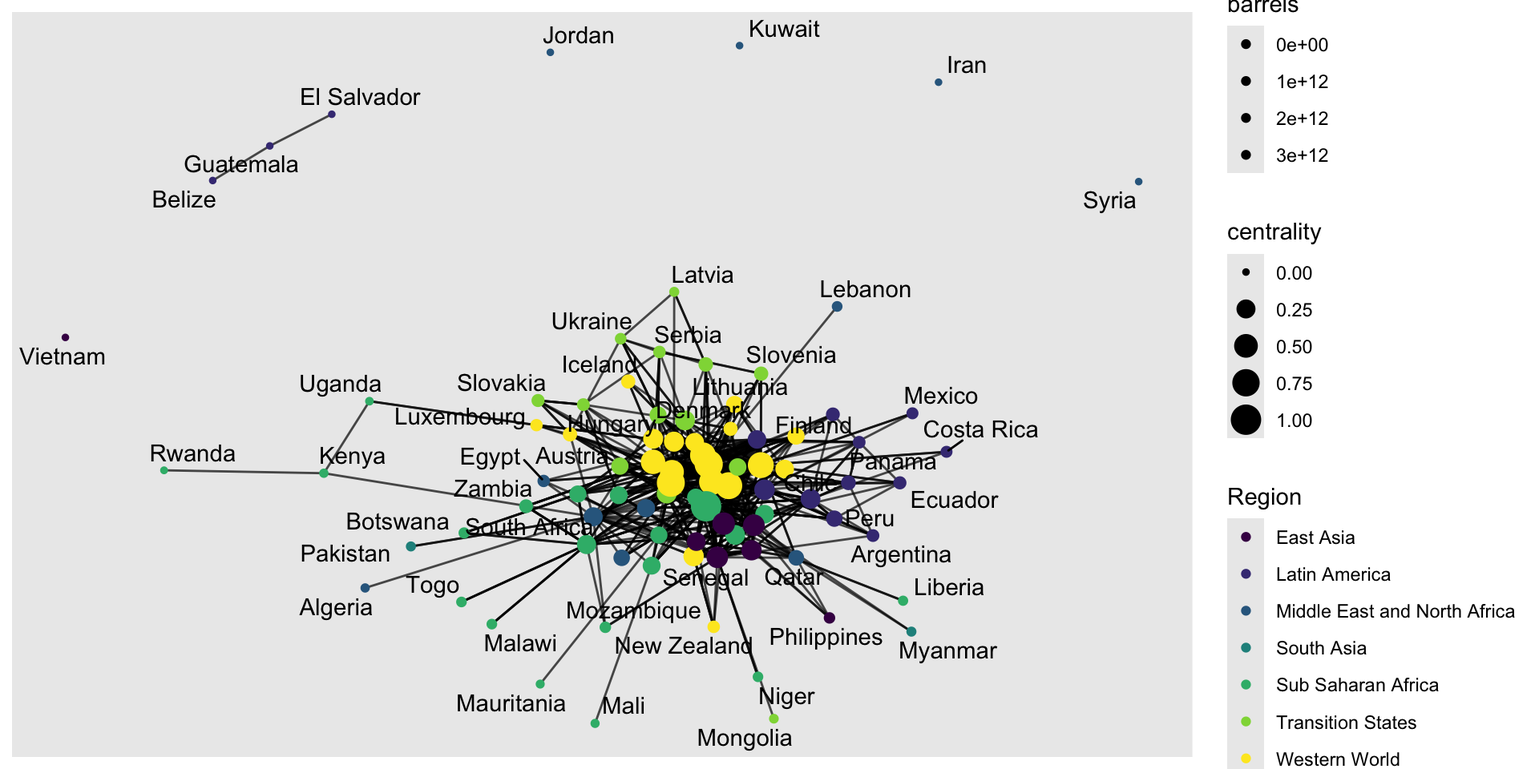
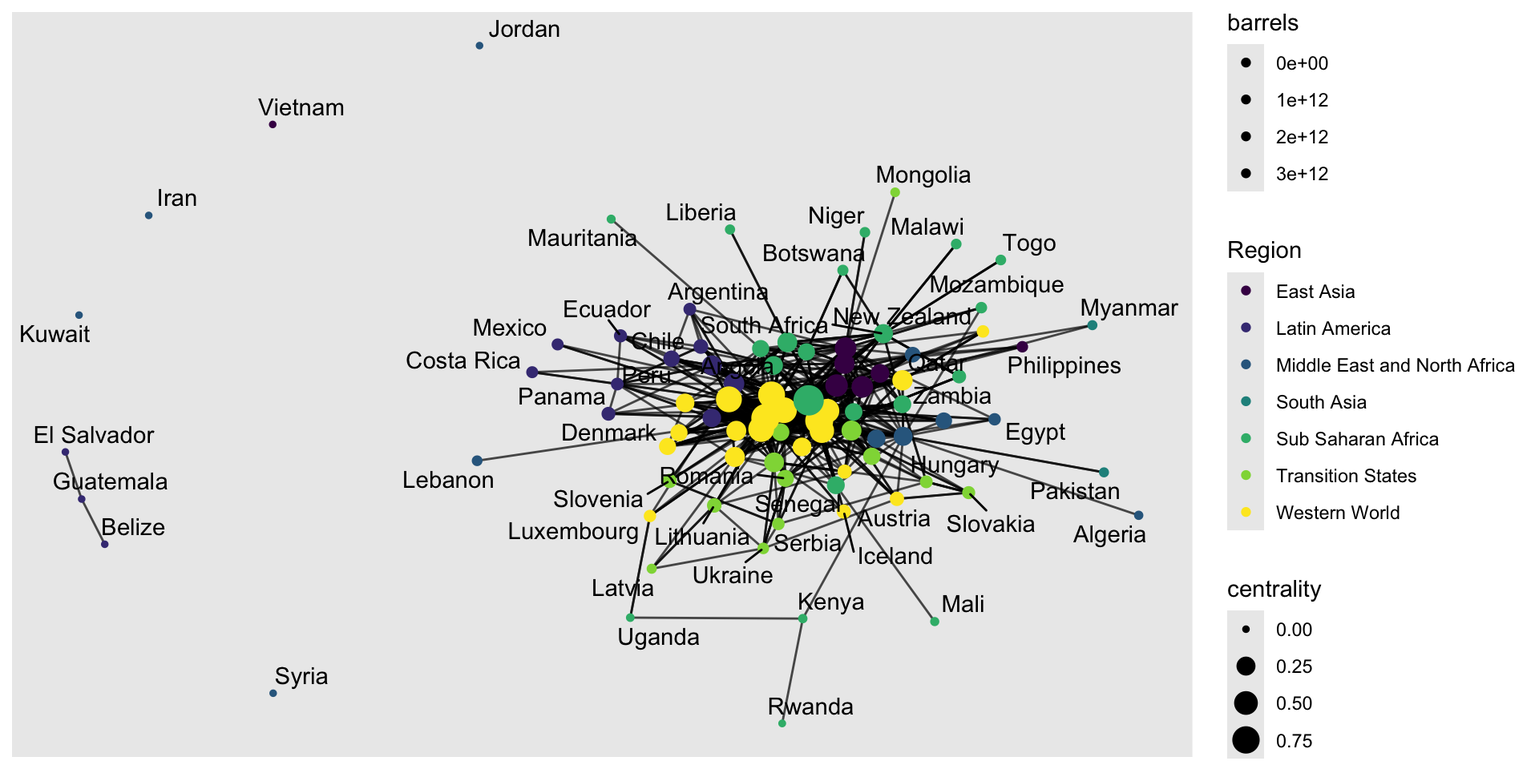
Updated Presentation

diff --git a/final_presentation.html b/final_presentation.html
@@ -10,7 +10,7 @@
   <meta name="generator" content="quarto-1.9.36">
 
   <meta name="author" content="Baxter Lowell">
-  <title>Project Presentation</title>
+  <title>Final Presentation: Global Oil Trade Networks</title>
   <meta name="apple-mobile-web-app-capable" content="yes">
   <meta name="apple-mobile-web-app-status-bar-style" content="black-translucent">
   <meta name="viewport" content="width=device-width, initial-scale=1.0, maximum-scale=1.0, user-scalable=no, minimal-ui">
@@ -139,7 +139,7 @@
     <div class="slides">
 
 <section id="title-slide" class="quarto-title-block center">
-  <h1 class="title">Project Presentation</h1>
+  <h1 class="title">Final Presentation: Global Oil Trade Networks</h1>
 
 <div class="quarto-title-authors">
 <div class="quarto-title-author">
@@ -166,7 +166,7 @@ Baxter Lowell
 </section>
 <section id="questions-of-interest" class="slide level2">
 <h2>Question(s) of Interest</h2>
-<p>Who does the US export oil to? Does exporting oil prop up an economy well enough to directly relate to a higher quality of life? What do trade networks look like for varying countries across the globe?</p>
+<p>Who does the US export oil to? Does exporting oil prop up an economy well enough to directly relate to a higher quality of life? What do trade networks look like for varying countries across the globe and how can this help explain who is effected most by global events such as conflicts, shortages, etc.?</p>
 </section>
 <section id="graph-1-usa-crude-oil-exports" class="slide level2">
 <h2>Graph 1: USA Crude Oil Exports</h2>
@@ -176,10 +176,14 @@ Baxter Lowell
 <h1>Graph 2: Oil Exports vs Life Expectancy</h1>
 <div class="cell">
 <div class="cell-output-display">
-<div class="plotly html-widget html-fill-item" id="htmlwidget-6b4110016b5d2728298e" style="width:960px;height:480px;"></div>
-<script type="application/json" data-for="htmlwidget-6b4110016b5d2728298e">{"x":{"data":[{"x":[73.5,73.5,73.5,69.400000000000006,74.200000000000003,68.700000000000003,74.099999999999994,74.099999999999994,74.099999999999994,74.099999999999994,74.099999999999994,74.099999999999994,74.099999999999994],"y":[47593325,1420845300,6365810000,2844781934.4000001,10367873490,4017782200,20,10,5,43000,40,76,681556705],"text":["Country: China","Country: China","Country: China","Country: Indonesia","Country: Malaysia","Country: Philippines","Country: Thailand","Country: Thailand","Country: Thailand","Country: Thailand","Country: Thailand","Country: Thailand","Country: Thailand"],"type":"scatter","mode":"markers","marker":{"autocolorscale":false,"color":"rgba(68,1,84,1)","opacity":1,"size":5.6692913385826778,"symbol":"circle","line":{"width":1.8897637795275593,"color":"rgba(68,1,84,1)"}},"hoveron":"points","name":"East Asia","legendgroup":"East Asia","showlegend":true,"xaxis":"x","yaxis":"y","hoverinfo":"text","frame":null},{"x":[75.900000000000006,76.099999999999994,79.099999999999994,79.099999999999994,73.700000000000003,73.700000000000003,79.299999999999997,72.200000000000003,71.200000000000003,69.900000000000006,74],"y":[6623706300,3012270,47593325,1420845300,28567776.699999999,28567776.699999999,91.552000000000007,5900.5,87758700,6365810000,702376.91000000003],"text":["Country: Argentina","Country: Belize","Country: Chile","Country: Chile","Country: Colombia","Country: Colombia","Country: Costa Rica","Country: El Salvador","Country: Guatemala","Country: Guyana","Country: Peru"],"type":"scatter","mode":"markers","marker":{"autocolorscale":false,"color":"rgba(68,58,131,1)","opacity":1,"size":5.6692913385826778,"symbol":"circle","line":{"width":1.8897637795275593,"color":"rgba(68,58,131,1)"}},"hoveron":"points","name":"Latin America","legendgroup":"Latin America","showlegend":true,"xaxis":"x","yaxis":"y","hoverinfo":"text","frame":null},{"x":[74.599999999999994,75.900000000000006,74.5],"y":[82006660000,25,1312046520],"text":["Country: Kuwait","Country: Syria","Country: Tunisia"],"type":"scatter","mode":"markers","marker":{"autocolorscale":false,"color":"rgba(49,104,142,1)","opacity":1,"size":5.6692913385826778,"symbol":"circle","line":{"width":1.8897637795275593,"color":"rgba(49,104,142,1)"}},"hoveron":"points","name":"Middle East and North Africa","legendgroup":"Middle East and North Africa","showlegend":true,"xaxis":"x","yaxis":"y","hoverinfo":"text","frame":null},{"x":[65.200000000000003,65.400000000000006],"y":[275000,43640],"text":["Country: Myanmar","Country: Pakistan"],"type":"scatter","mode":"markers","marker":{"autocolorscale":false,"color":"rgba(33,144,140,1)","opacity":1,"size":5.6692913385826778,"symbol":"circle","line":{"width":1.8897637795275593,"color":"rgba(33,144,140,1)"}},"hoveron":"points","name":"South Asia","legendgroup":"South Asia","showlegend":true,"xaxis":"x","yaxis":"y","hoverinfo":"text","frame":null},{"x":[51.100000000000001,53.200000000000003,51.600000000000001,51.600000000000001,57.399999999999999,57.399999999999999,55.399999999999999,64.200000000000003,64.200000000000003,57.100000000000001,54.200000000000003,51.399999999999999,58.600000000000001,62.5,62.5,62.5,54.700000000000003,51.899999999999999,55.399999999999999,59.299999999999997,57.100000000000001,57.100000000000001,54.100000000000001,49,49,49],"y":[386425653.80000001,568.75,3083818500,3083818500,13951740200,26,1115941190,1420845300,6365810000,2970,6,6,7.5499999999999998,6721.6899999999996,663,663,98,98,8500,63690165,13951740200,26,8500,6721.6899999999996,663,663],"text":["Country: Angola","Country: Botswana","Country: Cameroon","Country: Cameroon","Country: Congo","Country: Congo","Country: Cote d'Ivoire","Country: Ghana","Country: Ghana","Country: Kenya","Country: Malawi","Country: Mali","Country: Mauritania","Country: Namibia","Country: Namibia","Country: Namibia","Country: Niger","Country: Nigeria","Country: Rwanda","Country: Senegal","Country: Togo","Country: Togo","Country: Uganda","Country: Zambia","Country: Zambia","Country: Zambia"],"type":"scatter","mode":"markers","marker":{"autocolorscale":false,"color":"rgba(53,183,121,1)","opacity":1,"size":5.6692913385826778,"symbol":"circle","line":{"width":1.8897637795275593,"color":"rgba(53,183,121,1)"}},"hoveron":"points","name":"Sub Saharan Africa","legendgroup":"Sub Saharan Africa","showlegend":true,"xaxis":"x","yaxis":"y","hoverinfo":"text","frame":null},{"x":[70.700000000000003,70.700000000000003,70.700000000000003,70.700000000000003,70.700000000000003,70.700000000000003,70.700000000000003,70.700000000000003,70.700000000000003,70.700000000000003,70.700000000000003,70.700000000000003,70.700000000000003,70.700000000000003,70.700000000000003,70.700000000000003,70.700000000000003,70.700000000000003,70.700000000000003,70.700000000000003,70.700000000000003,70.700000000000003,70.700000000000003,76.599999999999994,74.400000000000006,67,73.299999999999997,73.299999999999997,72.200000000000003,68.5,74,74,74,74.5,75.400000000000006,75.400000000000006,79.299999999999997,79.299999999999997,68.5],"y":[26047249100,39196600,266569000,975166000,1135960000,199007000,1341020000,743513000,221085000,630056000,2270340000,11117500000,48042500,449879000,621948000,2025080000,138338000,554367000,1221970000,48688000,106275000,1202210000,691039000,524839089,271429467,70665926869,3688726,3688726,32491976,4730370,33984209.600000001,1.7,33984207.899999999,25,1503530,1046.8299999999999,1503530,1046.8299999999999,16321050],"text":["Country: Azerbaijan","Country: Azerbaijan","Country: Azerbaijan","Country: Azerbaijan","Country: Azerbaijan","Country: Azerbaijan","Country: Azerbaijan","Country: Azerbaijan","Country: Azerbaijan","Country: Azerbaijan","Country: Azerbaijan","Country: Azerbaijan","Country: Azerbaijan","Country: Azerbaijan","Country: Azerbaijan","Country: Azerbaijan","Country: Azerbaijan","Country: Azerbaijan","Country: Azerbaijan","Country: Azerbaijan","Country: Azerbaijan","Country: Azerbaijan","Country: Azerbaijan","Country: Croatia","Country: Hungary","Country: Kazakhstan","Country: Latvia","Country: Latvia","Country: Lithuania","Country: Mongolia","Country: Romania","Country: Romania","Country: Romania","Country: Serbia","Country: Slovakia","Country: Slovakia","Country: Slovenia","Country: Slovenia","Country: Ukraine"],"type":"scatter","mode":"markers","marker":{"autocolorscale":false,"color":"rgba(143,215,68,1)","opacity":1,"size":5.6692913385826778,"symbol":"circle","line":{"width":1.8897637795275593,"color":"rgba(143,215,68,1)"}},"hoveron":"points","name":"Transition States","legendgroup":"Transition States","showlegend":true,"xaxis":"x","yaxis":"y","hoverinfo":"text","frame":null},{"x":[81.900000000000006,80.900000000000006,80,80,80,81.5,81.5,81.5,81.5,80.400000000000006,80.400000000000006,79.900000000000006,81.799999999999997,80.599999999999994,80,80,80,80,81.099999999999994,81.099999999999994,81.099999999999994,81.099999999999994,81.099999999999994,81.099999999999994,81.099999999999994,81.099999999999994,81.400000000000006,81.400000000000006,81.400000000000006,81.400000000000006,81.400000000000006,81.400000000000006,81.400000000000006,81.400000000000006,81.400000000000006,81.400000000000006,82.299999999999997,80.200000000000003,80.200000000000003,80.200000000000003,80.200000000000003,80.200000000000003,80.200000000000003,80.200000000000003,80.200000000000003,80.200000000000003,80.200000000000003,80.200000000000003,80.200000000000003,80.200000000000003,80.200000000000003,80.200000000000003,80.200000000000003,80.200000000000003,80.200000000000003,80.200000000000003,80.200000000000003,80.200000000000003],"y":[14880141230.07,14880141230.07,11309230.58,6,6,152,1864,15000,119,2640400,2640400,125839000,146321911,146321911,3.2999999999999998,0.29999999999999999,2,1,293307000,1357390000,67057400,204278000,166950000,242627000,936167000,146979000,13.800000000000001,200,1286371673.4400001,400,32932700,276949300,31786000,33000800,31255916,32356900,301,260846660,26,674914100,1666261100,483933000,779410200,2305995400,3929837503,79689900,967525160,1158942000,432462900,52280600,14354305700,146275310,3194366700,710,404365800,1702984060,150,595719400],"text":["Country: Australia","Country: Austria","Country: Belgium","Country: Finland","Country: Finland","Country: France","Country: France","Country: France","Country: France","Country: Germany","Country: Germany","Country: Greece","Country: Iceland","Country: Ireland","Country: Luxembourg","Country: Luxembourg","Country: Luxembourg","Country: Luxembourg","Country: Norway","Country: Norway","Country: Norway","Country: Norway","Country: Norway","Country: Norway","Country: Norway","Country: Norway","Country: Spain","Country: Spain","Country: Spain","Country: Spain","Country: Spain","Country: Spain","Country: Spain","Country: Spain","Country: Spain","Country: Spain","Country: Switzerland","Country: United Kingdom","Country: United Kingdom","Country: United Kingdom","Country: United Kingdom","Country: United Kingdom","Country: United Kingdom","Country: United Kingdom","Country: United Kingdom","Country: United Kingdom","Country: United Kingdom","Country: United Kingdom","Country: United Kingdom","Country: United Kingdom","Country: United Kingdom","Country: United Kingdom","Country: United Kingdom","Country: United Kingdom","Country: United Kingdom","Country: United Kingdom","Country: United Kingdom","Country: United Kingdom"],"type":"scatter","mode":"markers","marker":{"autocolorscale":false,"color":"rgba(253,231,37,1)","opacity":1,"size":5.6692913385826778,"symbol":"circle","line":{"width":1.8897637795275593,"color":"rgba(253,231,37,1)"}},"hoveron":"points","name":"Western World","legendgroup":"Western World","showlegend":true,"xaxis":"x","yaxis":"y","hoverinfo":"text","frame":null},{"x":[null,null,null,null,null,null,null,null,null,null,null,null,null,null,null,null,null],"y":[5,17639400,35302195.899999999,625804,2819599248,5,249566455,368.89999999999998,8895,2414205,45838450,182843600,90,1090843,1482247512,14400,2414205],"text":"Country: NA","type":"scatter","mode":"markers","marker":{"autocolorscale":false,"color":["transparent","transparent","transparent","transparent","transparent","transparent","transparent","transparent","transparent","transparent","transparent","transparent","transparent","transparent","transparent","transparent","transparent"],"opacity":1,"size":5.6692913385826778,"symbol":"circle","line":{"width":1.8897637795275593,"color":["transparent","transparent","transparent","transparent","transparent","transparent","transparent","transparent","transparent","transparent","transparent","transparent","transparent","transparent","transparent","transparent","transparent"]}},"hoveron":"points","name":"NA","legendgroup":"NA","showlegend":true,"xaxis":"x","yaxis":"y","hoverinfo":"text","frame":null}],"layout":{"margin":{"t":40.840182648401829,"r":7.3059360730593621,"b":37.260273972602747,"l":54.794520547945211},"plot_bgcolor":"rgba(255,255,255,1)","paper_bgcolor":"rgba(255,255,255,1)","font":{"color":"rgba(0,0,0,1)","family":"","size":14.611872146118724},"title":{"text":"Life Expectancy Based on Crude Oil Exports","font":{"color":"rgba(0,0,0,1)","family":"","size":17.534246575342465},"x":0,"xref":"paper"},"xaxis":{"domain":[0,1],"automargin":true,"type":"linear","autorange":false,"range":[47.335000000000001,83.965000000000003],"tickmode":"array","ticktext":["50","60","70","80"],"tickvals":[50,60,70,80],"categoryorder":"array","categoryarray":["50","60","70","80"],"nticks":null,"ticks":"outside","tickcolor":"rgba(51,51,51,1)","ticklen":3.6529680365296811,"tickwidth":0.66417600664176002,"showticklabels":true,"tickfont":{"color":"rgba(77,77,77,1)","family":"","size":11.68949771689498},"tickangle":-0,"showline":false,"linecolor":null,"linewidth":0,"showgrid":true,"gridcolor":"rgba(235,235,235,1)","gridwidth":0.66417600664176002,"zeroline":false,"anchor":"y","title":{"text":" Life Expectancy","font":{"color":"rgba(0,0,0,1)","family":"","size":14.611872146118724}},"hoverformat":".2f"},"yaxis":{"domain":[0,1],"automargin":true,"type":"linear","autorange":false,"range":[-4100332999.6849999,86106992999.985001],"tickmode":"array","ticktext":["0e+00","2e+10","4e+10","6e+10","8e+10"],"tickvals":[0,20000000000,40000000000,60000000000.000008,80000000000],"categoryorder":"array","categoryarray":["0e+00","2e+10","4e+10","6e+10","8e+10"],"nticks":null,"ticks":"outside","tickcolor":"rgba(51,51,51,1)","ticklen":3.6529680365296811,"tickwidth":0.66417600664176002,"showticklabels":true,"tickfont":{"color":"rgba(77,77,77,1)","family":"","size":11.68949771689498},"tickangle":-0,"showline":false,"linecolor":null,"linewidth":0,"showgrid":true,"gridcolor":"rgba(235,235,235,1)","gridwidth":0.66417600664176002,"zeroline":false,"anchor":"x","title":{"text":"Barrels Exported","font":{"color":"rgba(0,0,0,1)","family":"","size":14.611872146118724}},"hoverformat":".2f"},"shapes":[{"type":"rect","fillcolor":"rgba(255,255,255,1)","line":{"color":"rgba(51,51,51,1)","width":0.66417600664176002,"linetype":"solid"},"yref":"paper","xref":"paper","layer":"below","x0":0,"x1":1,"y0":0,"y1":1}],"showlegend":true,"legend":{"bgcolor":"rgba(255,255,255,1)","bordercolor":"transparent","borderwidth":1.8897637795275593,"font":{"color":"rgba(0,0,0,1)","family":"","size":11.68949771689498},"title":{"text":"Region","font":{"color":"rgba(0,0,0,1)","family":"","size":14.611872146118724}}},"hovermode":"closest","barmode":"relative"},"config":{"doubleClick":"reset","modeBarButtonsToAdd":["hoverclosest","hovercompare"],"showSendToCloud":false},"source":"A","attrs":{"184881688831a":{"x":{},"y":{},"colour":{},"label":{},"type":"scatter"}},"cur_data":"184881688831a","visdat":{"184881688831a":["function (y) ","x"]},"highlight":{"on":"plotly_click","persistent":false,"dynamic":false,"selectize":false,"opacityDim":0.20000000000000001,"selected":{"opacity":1},"debounce":0},"shinyEvents":["plotly_hover","plotly_click","plotly_selected","plotly_relayout","plotly_brushed","plotly_brushing","plotly_clickannotation","plotly_doubleclick","plotly_deselect","plotly_afterplot","plotly_sunburstclick"],"base_url":"https://plot.ly"},"evals":[],"jsHooks":[]}</script>
+<div class="plotly html-widget html-fill-item" id="htmlwidget-092c2b0942035cf39b8c" style="width:960px;height:480px;"></div>
+<script type="application/json" data-for="htmlwidget-092c2b0942035cf39b8c">{"x":{"data":[{"x":[73.5,73.5,73.5,69.400000000000006,74.200000000000003,68.700000000000003,74.099999999999994,74.099999999999994,74.099999999999994,74.099999999999994,74.099999999999994,74.099999999999994,74.099999999999994],"y":[47593325,1420845300,6365810000,2844781934.4000001,10367873490,4017782200,20,10,5,43000,40,76,681556705],"text":["Country: China","Country: China","Country: China","Country: Indonesia","Country: Malaysia","Country: Philippines","Country: Thailand","Country: Thailand","Country: Thailand","Country: Thailand","Country: Thailand","Country: Thailand","Country: Thailand"],"type":"scatter","mode":"markers","marker":{"autocolorscale":false,"color":"rgba(68,1,84,1)","opacity":1,"size":5.6692913385826778,"symbol":"circle","line":{"width":1.8897637795275593,"color":"rgba(68,1,84,1)"}},"hoveron":"points","name":"East Asia","legendgroup":"East Asia","showlegend":true,"xaxis":"x","yaxis":"y","hoverinfo":"text","frame":null},{"x":[75.900000000000006,76.099999999999994,79.099999999999994,79.099999999999994,73.700000000000003,73.700000000000003,79.299999999999997,72.200000000000003,71.200000000000003,69.900000000000006,74],"y":[6623706300,3012270,47593325,1420845300,28567776.699999999,28567776.699999999,91.552000000000007,5900.5,87758700,6365810000,702376.91000000003],"text":["Country: Argentina","Country: Belize","Country: Chile","Country: Chile","Country: Colombia","Country: Colombia","Country: Costa Rica","Country: El Salvador","Country: Guatemala","Country: Guyana","Country: Peru"],"type":"scatter","mode":"markers","marker":{"autocolorscale":false,"color":"rgba(68,58,131,1)","opacity":1,"size":5.6692913385826778,"symbol":"circle","line":{"width":1.8897637795275593,"color":"rgba(68,58,131,1)"}},"hoveron":"points","name":"Latin America","legendgroup":"Latin America","showlegend":true,"xaxis":"x","yaxis":"y","hoverinfo":"text","frame":null},{"x":[74.599999999999994,75.900000000000006,74.5],"y":[82006660000,25,1312046520],"text":["Country: Kuwait","Country: Syria","Country: Tunisia"],"type":"scatter","mode":"markers","marker":{"autocolorscale":false,"color":"rgba(49,104,142,1)","opacity":1,"size":5.6692913385826778,"symbol":"circle","line":{"width":1.8897637795275593,"color":"rgba(49,104,142,1)"}},"hoveron":"points","name":"Middle East and North Africa","legendgroup":"Middle East and North Africa","showlegend":true,"xaxis":"x","yaxis":"y","hoverinfo":"text","frame":null},{"x":[65.200000000000003,65.400000000000006],"y":[275000,43640],"text":["Country: Myanmar","Country: Pakistan"],"type":"scatter","mode":"markers","marker":{"autocolorscale":false,"color":"rgba(33,144,140,1)","opacity":1,"size":5.6692913385826778,"symbol":"circle","line":{"width":1.8897637795275593,"color":"rgba(33,144,140,1)"}},"hoveron":"points","name":"South Asia","legendgroup":"South Asia","showlegend":true,"xaxis":"x","yaxis":"y","hoverinfo":"text","frame":null},{"x":[51.100000000000001,53.200000000000003,51.600000000000001,51.600000000000001,57.399999999999999,57.399999999999999,55.399999999999999,64.200000000000003,64.200000000000003,57.100000000000001,54.200000000000003,51.399999999999999,58.600000000000001,62.5,62.5,62.5,54.700000000000003,51.899999999999999,55.399999999999999,59.299999999999997,57.100000000000001,57.100000000000001,54.100000000000001,49,49,49],"y":[386425653.80000001,568.75,3083818500,3083818500,13951740200,26,1115941190,1420845300,6365810000,2970,6,6,7.5499999999999998,6721.6899999999996,663,663,98,98,8500,63690165,13951740200,26,8500,6721.6899999999996,663,663],"text":["Country: Angola","Country: Botswana","Country: Cameroon","Country: Cameroon","Country: Congo","Country: Congo","Country: Cote d'Ivoire","Country: Ghana","Country: Ghana","Country: Kenya","Country: Malawi","Country: Mali","Country: Mauritania","Country: Namibia","Country: Namibia","Country: Namibia","Country: Niger","Country: Nigeria","Country: Rwanda","Country: Senegal","Country: Togo","Country: Togo","Country: Uganda","Country: Zambia","Country: Zambia","Country: Zambia"],"type":"scatter","mode":"markers","marker":{"autocolorscale":false,"color":"rgba(53,183,121,1)","opacity":1,"size":5.6692913385826778,"symbol":"circle","line":{"width":1.8897637795275593,"color":"rgba(53,183,121,1)"}},"hoveron":"points","name":"Sub Saharan Africa","legendgroup":"Sub Saharan Africa","showlegend":true,"xaxis":"x","yaxis":"y","hoverinfo":"text","frame":null},{"x":[70.700000000000003,70.700000000000003,70.700000000000003,70.700000000000003,70.700000000000003,70.700000000000003,70.700000000000003,70.700000000000003,70.700000000000003,70.700000000000003,70.700000000000003,70.700000000000003,70.700000000000003,70.700000000000003,70.700000000000003,70.700000000000003,70.700000000000003,70.700000000000003,70.700000000000003,70.700000000000003,70.700000000000003,70.700000000000003,70.700000000000003,76.599999999999994,74.400000000000006,67,73.299999999999997,73.299999999999997,72.200000000000003,68.5,74,74,74,74.5,75.400000000000006,75.400000000000006,79.299999999999997,79.299999999999997,68.5],"y":[26047249100,39196600,266569000,975166000,1135960000,199007000,1341020000,743513000,221085000,630056000,2270340000,11117500000,48042500,449879000,621948000,2025080000,138338000,554367000,1221970000,48688000,106275000,1202210000,691039000,524839089,271429467,70665926869,3688726,3688726,32491976,4730370,33984209.600000001,1.7,33984207.899999999,25,1503530,1046.8299999999999,1503530,1046.8299999999999,16321050],"text":["Country: Azerbaijan","Country: Azerbaijan","Country: Azerbaijan","Country: Azerbaijan","Country: Azerbaijan","Country: Azerbaijan","Country: Azerbaijan","Country: Azerbaijan","Country: Azerbaijan","Country: Azerbaijan","Country: Azerbaijan","Country: Azerbaijan","Country: Azerbaijan","Country: Azerbaijan","Country: Azerbaijan","Country: Azerbaijan","Country: Azerbaijan","Country: Azerbaijan","Country: Azerbaijan","Country: Azerbaijan","Country: Azerbaijan","Country: Azerbaijan","Country: Azerbaijan","Country: Croatia","Country: Hungary","Country: Kazakhstan","Country: Latvia","Country: Latvia","Country: Lithuania","Country: Mongolia","Country: Romania","Country: Romania","Country: Romania","Country: Serbia","Country: Slovakia","Country: Slovakia","Country: Slovenia","Country: Slovenia","Country: Ukraine"],"type":"scatter","mode":"markers","marker":{"autocolorscale":false,"color":"rgba(143,215,68,1)","opacity":1,"size":5.6692913385826778,"symbol":"circle","line":{"width":1.8897637795275593,"color":"rgba(143,215,68,1)"}},"hoveron":"points","name":"Transition States","legendgroup":"Transition States","showlegend":true,"xaxis":"x","yaxis":"y","hoverinfo":"text","frame":null},{"x":[81.900000000000006,80.900000000000006,80,80,80,81.5,81.5,81.5,81.5,80.400000000000006,80.400000000000006,79.900000000000006,81.799999999999997,80.599999999999994,80,80,80,80,81.099999999999994,81.099999999999994,81.099999999999994,81.099999999999994,81.099999999999994,81.099999999999994,81.099999999999994,81.099999999999994,81.400000000000006,81.400000000000006,81.400000000000006,81.400000000000006,81.400000000000006,81.400000000000006,81.400000000000006,81.400000000000006,81.400000000000006,81.400000000000006,82.299999999999997,80.200000000000003,80.200000000000003,80.200000000000003,80.200000000000003,80.200000000000003,80.200000000000003,80.200000000000003,80.200000000000003,80.200000000000003,80.200000000000003,80.200000000000003,80.200000000000003,80.200000000000003,80.200000000000003,80.200000000000003,80.200000000000003,80.200000000000003,80.200000000000003,80.200000000000003,80.200000000000003,80.200000000000003],"y":[14880141230.07,14880141230.07,11309230.58,6,6,152,1864,15000,119,2640400,2640400,125839000,146321911,146321911,3.2999999999999998,0.29999999999999999,2,1,293307000,1357390000,67057400,204278000,166950000,242627000,936167000,146979000,13.800000000000001,200,1286371673.4400001,400,32932700,276949300,31786000,33000800,31255916,32356900,301,260846660,26,674914100,1666261100,483933000,779410200,2305995400,3929837503,79689900,967525160,1158942000,432462900,52280600,14354305700,146275310,3194366700,710,404365800,1702984060,150,595719400],"text":["Country: Australia","Country: Austria","Country: Belgium","Country: Finland","Country: Finland","Country: France","Country: France","Country: France","Country: France","Country: Germany","Country: Germany","Country: Greece","Country: Iceland","Country: Ireland","Country: Luxembourg","Country: Luxembourg","Country: Luxembourg","Country: Luxembourg","Country: Norway","Country: Norway","Country: Norway","Country: Norway","Country: Norway","Country: Norway","Country: Norway","Country: Norway","Country: Spain","Country: Spain","Country: Spain","Country: Spain","Country: Spain","Country: Spain","Country: Spain","Country: Spain","Country: Spain","Country: Spain","Country: Switzerland","Country: United Kingdom","Country: United Kingdom","Country: United Kingdom","Country: United Kingdom","Country: United Kingdom","Country: United Kingdom","Country: United Kingdom","Country: United Kingdom","Country: United Kingdom","Country: United Kingdom","Country: United Kingdom","Country: United Kingdom","Country: United Kingdom","Country: United Kingdom","Country: United Kingdom","Country: United Kingdom","Country: United Kingdom","Country: United Kingdom","Country: United Kingdom","Country: United Kingdom","Country: United Kingdom"],"type":"scatter","mode":"markers","marker":{"autocolorscale":false,"color":"rgba(253,231,37,1)","opacity":1,"size":5.6692913385826778,"symbol":"circle","line":{"width":1.8897637795275593,"color":"rgba(253,231,37,1)"}},"hoveron":"points","name":"Western World","legendgroup":"Western World","showlegend":true,"xaxis":"x","yaxis":"y","hoverinfo":"text","frame":null},{"x":[null,null,null,null,null,null,null,null,null,null,null,null,null,null,null,null,null],"y":[5,17639400,35302195.899999999,625804,2819599248,5,249566455,368.89999999999998,8895,2414205,45838450,182843600,90,1090843,1482247512,14400,2414205],"text":"Country: NA","type":"scatter","mode":"markers","marker":{"autocolorscale":false,"color":["transparent","transparent","transparent","transparent","transparent","transparent","transparent","transparent","transparent","transparent","transparent","transparent","transparent","transparent","transparent","transparent","transparent"],"opacity":1,"size":5.6692913385826778,"symbol":"circle","line":{"width":1.8897637795275593,"color":["transparent","transparent","transparent","transparent","transparent","transparent","transparent","transparent","transparent","transparent","transparent","transparent","transparent","transparent","transparent","transparent","transparent"]}},"hoveron":"points","name":"NA","legendgroup":"NA","showlegend":true,"xaxis":"x","yaxis":"y","hoverinfo":"text","frame":null}],"layout":{"margin":{"t":40.840182648401829,"r":7.3059360730593621,"b":37.260273972602747,"l":54.794520547945211},"plot_bgcolor":"rgba(255,255,255,1)","paper_bgcolor":"rgba(255,255,255,1)","font":{"color":"rgba(0,0,0,1)","family":"","size":14.611872146118724},"title":{"text":"Life Expectancy Based on Crude Oil Exports","font":{"color":"rgba(0,0,0,1)","family":"","size":17.534246575342465},"x":0,"xref":"paper"},"xaxis":{"domain":[0,1],"automargin":true,"type":"linear","autorange":false,"range":[47.335000000000001,83.965000000000003],"tickmode":"array","ticktext":["50","60","70","80"],"tickvals":[50,60,70,80],"categoryorder":"array","categoryarray":["50","60","70","80"],"nticks":null,"ticks":"outside","tickcolor":"rgba(51,51,51,1)","ticklen":3.6529680365296811,"tickwidth":0.66417600664176002,"showticklabels":true,"tickfont":{"color":"rgba(77,77,77,1)","family":"","size":11.68949771689498},"tickangle":-0,"showline":false,"linecolor":null,"linewidth":0,"showgrid":true,"gridcolor":"rgba(235,235,235,1)","gridwidth":0.66417600664176002,"zeroline":false,"anchor":"y","title":{"text":" Life Expectancy","font":{"color":"rgba(0,0,0,1)","family":"","size":14.611872146118724}},"hoverformat":".2f"},"yaxis":{"domain":[0,1],"automargin":true,"type":"linear","autorange":false,"range":[-4100332999.6849999,86106992999.985001],"tickmode":"array","ticktext":["0e+00","2e+10","4e+10","6e+10","8e+10"],"tickvals":[0,20000000000,40000000000,60000000000.000008,80000000000],"categoryorder":"array","categoryarray":["0e+00","2e+10","4e+10","6e+10","8e+10"],"nticks":null,"ticks":"outside","tickcolor":"rgba(51,51,51,1)","ticklen":3.6529680365296811,"tickwidth":0.66417600664176002,"showticklabels":true,"tickfont":{"color":"rgba(77,77,77,1)","family":"","size":11.68949771689498},"tickangle":-0,"showline":false,"linecolor":null,"linewidth":0,"showgrid":true,"gridcolor":"rgba(235,235,235,1)","gridwidth":0.66417600664176002,"zeroline":false,"anchor":"x","title":{"text":"Barrels Exported","font":{"color":"rgba(0,0,0,1)","family":"","size":14.611872146118724}},"hoverformat":".2f"},"shapes":[{"type":"rect","fillcolor":"rgba(255,255,255,1)","line":{"color":"rgba(51,51,51,1)","width":0.66417600664176002,"linetype":"solid"},"yref":"paper","xref":"paper","layer":"below","x0":0,"x1":1,"y0":0,"y1":1}],"showlegend":true,"legend":{"bgcolor":"rgba(255,255,255,1)","bordercolor":"transparent","borderwidth":1.8897637795275593,"font":{"color":"rgba(0,0,0,1)","family":"","size":11.68949771689498},"title":{"text":"Region","font":{"color":"rgba(0,0,0,1)","family":"","size":14.611872146118724}}},"hovermode":"closest","barmode":"relative"},"config":{"doubleClick":"reset","modeBarButtonsToAdd":["hoverclosest","hovercompare"],"showSendToCloud":false},"source":"A","attrs":{"141d9b37a3":{"x":{},"y":{},"colour":{},"label":{},"type":"scatter"}},"cur_data":"141d9b37a3","visdat":{"141d9b37a3":["function (y) ","x"]},"highlight":{"on":"plotly_click","persistent":false,"dynamic":false,"selectize":false,"opacityDim":0.20000000000000001,"selected":{"opacity":1},"debounce":0},"shinyEvents":["plotly_hover","plotly_click","plotly_selected","plotly_relayout","plotly_brushed","plotly_brushing","plotly_clickannotation","plotly_doubleclick","plotly_deselect","plotly_afterplot","plotly_sunburstclick"],"base_url":"https://plot.ly"},"evals":[],"jsHooks":[]}</script>
 </div>
 </div>
+</section>
+
+<section id="graph-3-network-graph" class="title-slide slide level1 center">
+<h1>Graph 3: Network Graph</h1>
 
 <img data-src="final_presentation_files/figure-revealjs/unnamed-chunk-4-1.png" width="960" class="r-stretch"><p>Not Done yet: Shiny App of network graph, where user can select a country and an additional variable to color points by.</p>
 
